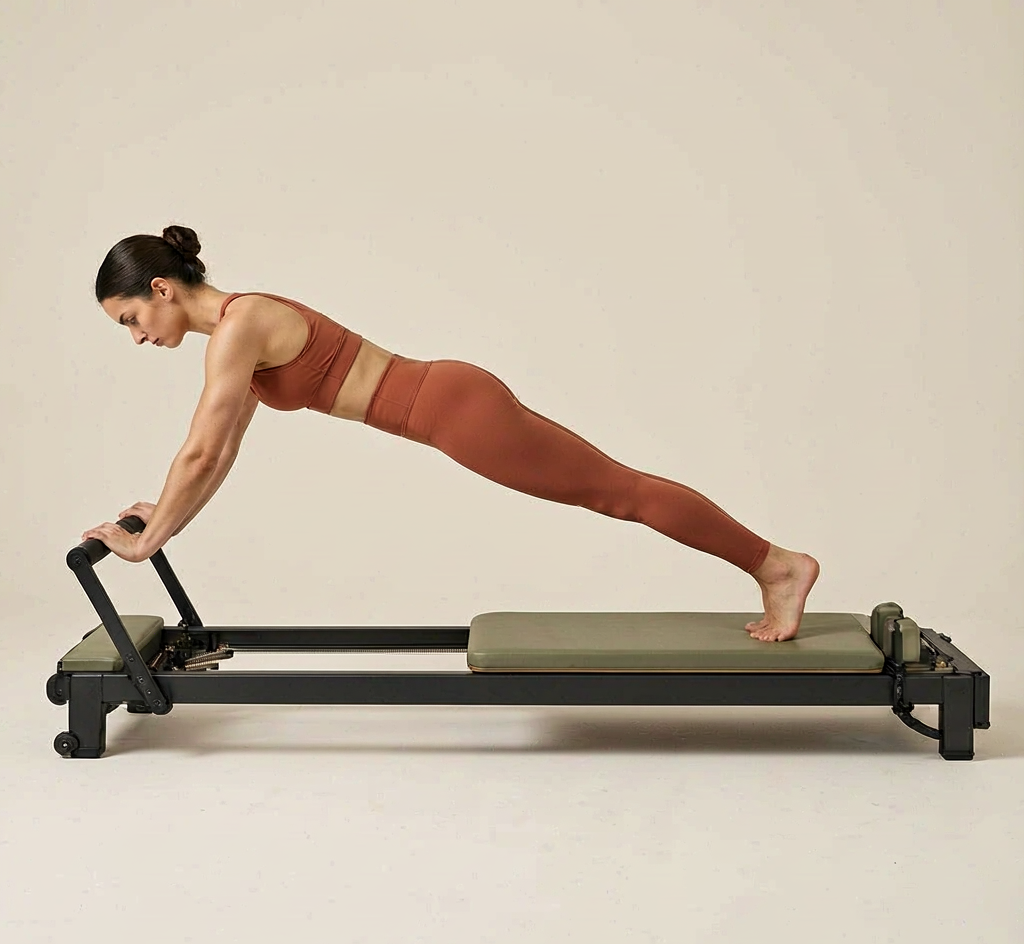
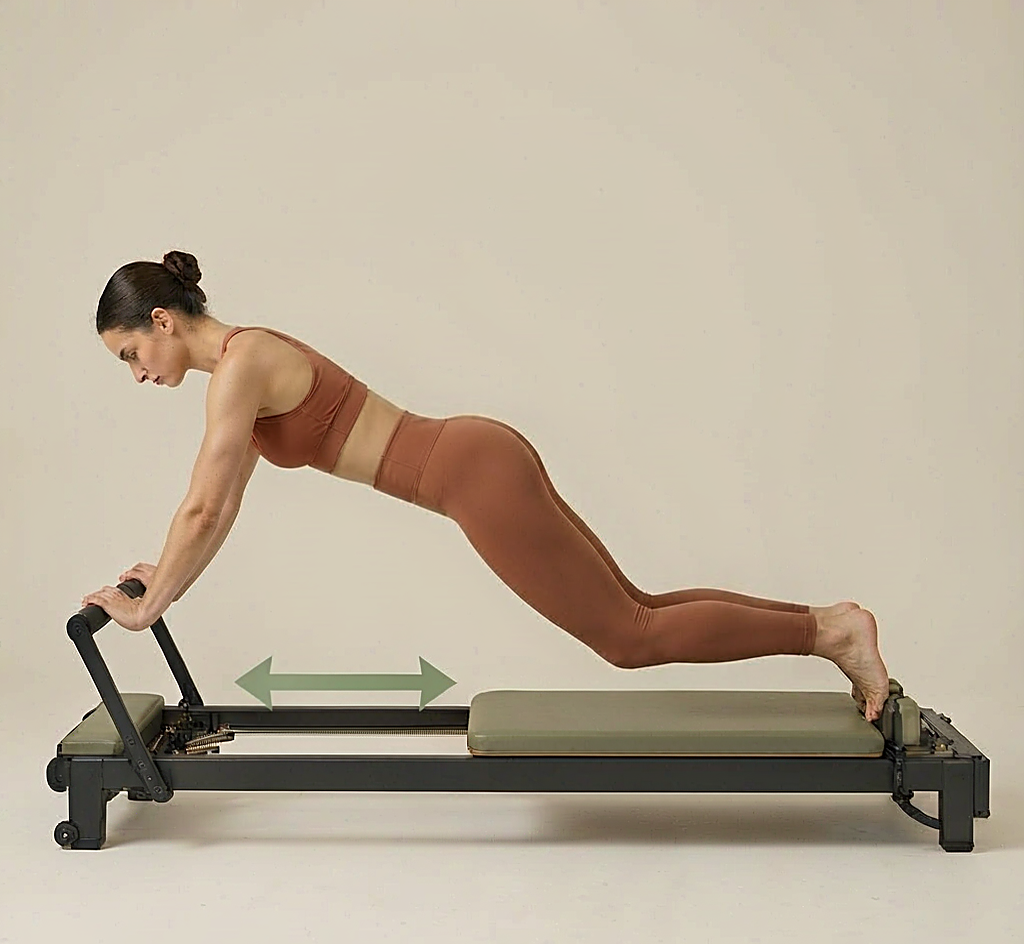
Deploy Knee Stretches Knees Off B v2

diff --git a/src/App.tsx b/src/App.tsx
@@ -364,7 +364,7 @@ const reformerAlignedImages: Record<string, string> = {
   "Arm Circles": "assets/reformer/50.png?v=1",
   "Snake": "assets/reformer/51.png?v=1",
   "Twist": "assets/reformer/52.png?v=1",
-  "Knee Stretches Knees Off": "assets/reformer/53.png?v=1",
+  "Knee Stretches Knees Off": "assets/reformer/53.png?v=2",
   "Footbar Plank Box Slide": "assets/reformer/54.png?v=1",
   "Footbar Reverse Plank Box Slide": "assets/reformer/55.png?v=1",
   "Star": "assets/reformer/56.png?v=1",
